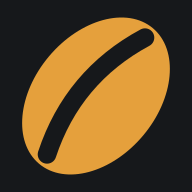
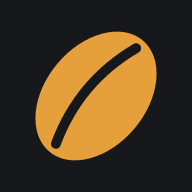
link GitHub nel piè di pagina | GitHub link in footer

diff --git a/app.js b/app.js
@@ -974,7 +974,7 @@ function onboarding(t){
         <div class="onb-mark">Macinino<svg width="17" height="17" viewBox="0 0 64 64" aria-hidden="true">
           <g transform="rotate(40 32 32)">
             <ellipse cx="32" cy="32" rx="18.7" ry="26.7" fill="#E5A03C"/>
-            <path d="M32 8.5Q23.5 32 32 55.5" stroke="#16181B" stroke-width="5.6" fill="none" stroke-linecap="round"/>
+            <path d="M32 8.5Q23.5 32 32 55.5" stroke="#16181B" stroke-width="4.2" fill="none" stroke-linecap="round"/>
           </g>
         </svg></div>
         <div class="lang-pill">
@@ -1063,7 +1063,7 @@ function render(){
       <span class="brand">Macinino<svg class="brand-mark" width="17" height="17" viewBox="0 0 64 64" aria-hidden="true">
         <g transform="rotate(40 32 32)">
           <ellipse cx="32" cy="32" rx="18.7" ry="26.7" fill="${color}"/>
-          <path d="M32 8.5Q23.5 32 32 55.5" stroke="#16181B" stroke-width="5.6" fill="none" stroke-linecap="round"/>
+          <path d="M32 8.5Q23.5 32 32 55.5" stroke="#16181B" stroke-width="4.2" fill="none" stroke-linecap="round"/>
         </g>
       </svg></span>
       <span class="brand-sub">${esc(t.tagline)}</span>
@@ -1266,7 +1266,7 @@ function render(){
     </div>
     <div class="foot-claim">${esc(t.footClaim)}</div>
     <div class="foot-note">${esc(t.footNote)}</div>
-    <div class="foot-copy">© 2026 Studionodo · ${esc(t.rights)}</div>
+    <div class="foot-copy">© 2026 Studionodo · ${esc(t.rights)} · <a class="foot-link" href="https://github.com/Studionodo" target="_blank" rel="noopener noreferrer">GitHub</a></div>
   </div>`;
 
   const root=document.getElementById("root");

diff --git a/privacy.html b/privacy.html
@@ -6,7 +6,13 @@
 <title>Macinino — Privacy</title>
 <meta name="theme-color" content="#16181B">
 <style>
-  @import url('https://fonts.googleapis.com/css2?family=Fraunces:opsz,wght@9..144,500&family=Geist+Mono:wght@300;400&display=swap');
+  /* Font locali, non da CDN: questa pagina promette che nessun dato lascia
+     il dispositivo, e una chiamata a Google la smentirebbe nel momento stesso
+     in cui viene letta. */
+  @font-face{font-family:'Fraunces';font-style:normal;font-weight:100 900;font-display:swap;
+    src:url('fonts/fraunces.woff2') format('woff2');}
+  @font-face{font-family:'Geist Mono';font-style:normal;font-weight:300 500;font-display:swap;
+    src:url('fonts/geist-mono.woff2') format('woff2');}
   *{box-sizing:border-box;margin:0;padding:0}
   :root{--bg:#16181B;--fg:#EDE9E1;--mid:#918F87;--faint:#33373C}
   body{background:var(--bg);color:var(--fg);font-family:'Geist Mono',monospace;

diff --git a/index.html b/index.html
@@ -510,6 +510,12 @@
     margin-top:13px;text-align:center;
     display:flex;flex-direction:column;align-items:center;gap:11px}   /* 2,6:1 */
   .foot-copy::before{content:"";width:120px;height:1px;background:var(--faint)}
+  /* Il link segue lo stesso principio del resto del piè di pagina: leggibile
+     ma discreto, non un invito a cliccare. Sottolineato solo, nessun colore
+     acceso che lo faccia sembrare un'azione da compiere. */
+  .foot-link{color:#565A5E;text-decoration:underline;text-underline-offset:2px;
+    text-decoration-color:var(--faint)}
+  .foot-link:active{color:var(--mid)}
 
   /* ── INSTALLAZIONE ── */
   .install-bar{position:fixed;left:0;right:0;bottom:0;z-index:40;

diff --git a/sw.js b/sw.js
@@ -13,12 +13,12 @@
 
    ⚠  ALZARE QUESTO NUMERO A OGNI PUBBLICAZIONE.
    Senza, chi ha già aperto l'app continua a vedere la versione vecchia. */
-const CACHE = "macinino-v47";
+const CACHE = "macinino-v50";
 
 const ASSETS = [
   "./", "./index.html", "./app.js", "./manifest.webmanifest",
   "./icon.svg", "./icon-192.png", "./icon-512.png",
-  "./icon-maskable-512.png", "./LICENSE", "./icon-180.png",
+  "./LICENSE", "./icon-180.png",
   "./fonts/fraunces.woff2", "./fonts/fraunces-italic.woff2", "./fonts/geist-mono.woff2",
 ];
 
